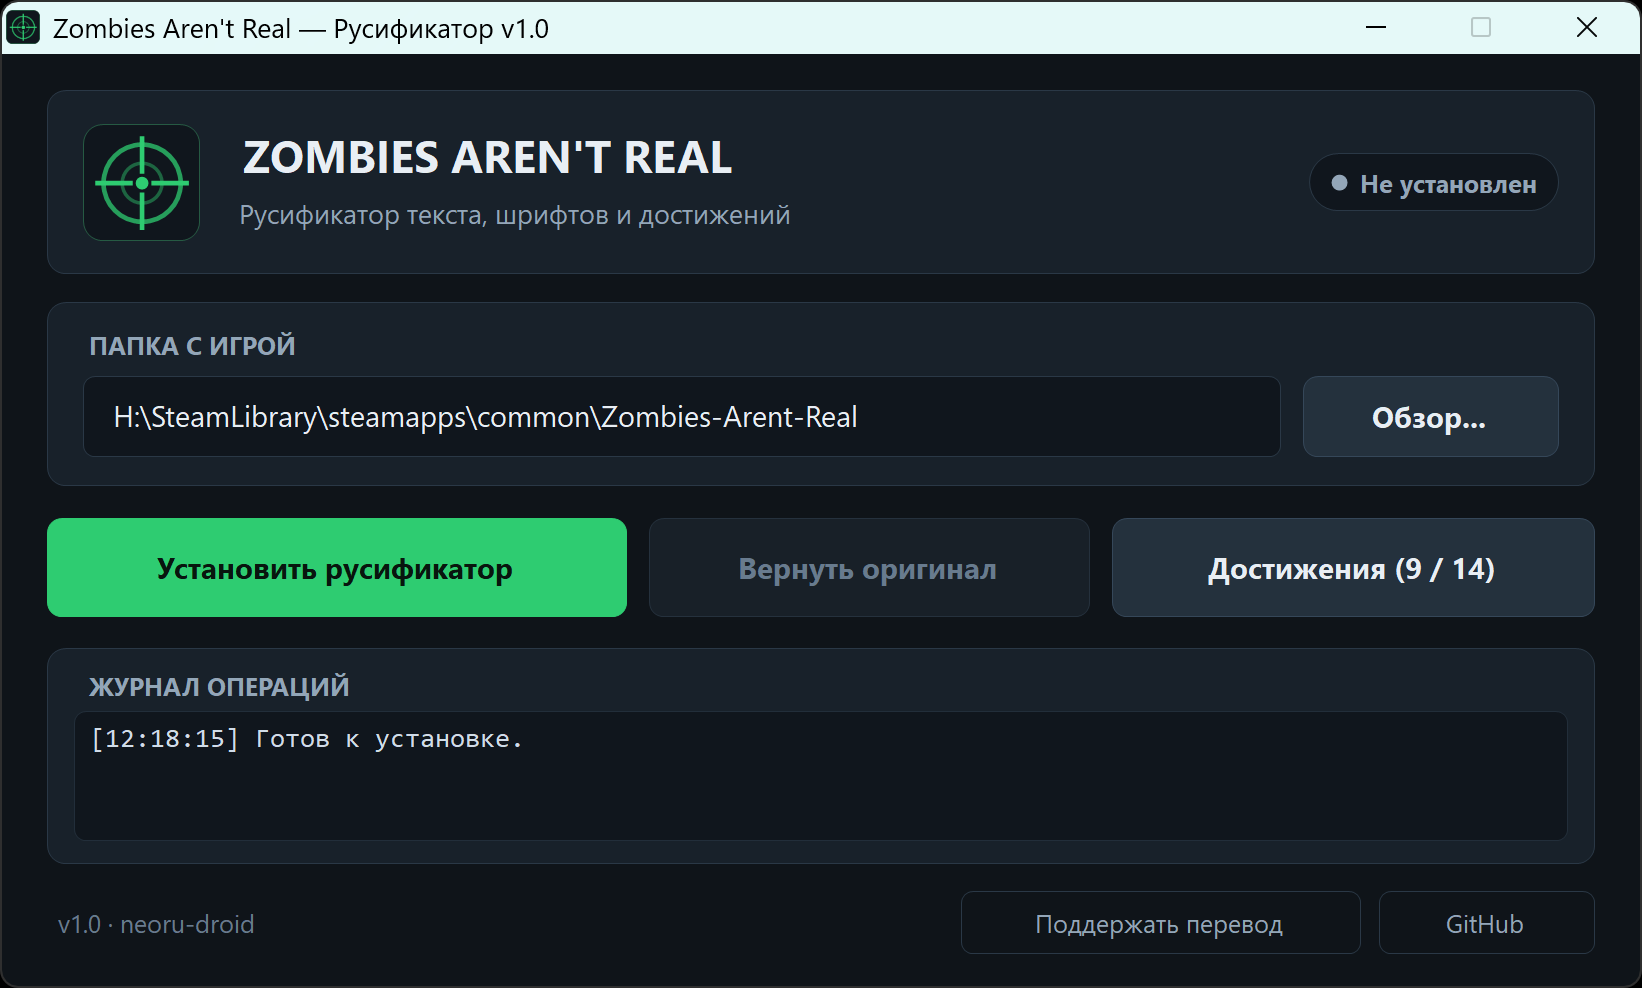
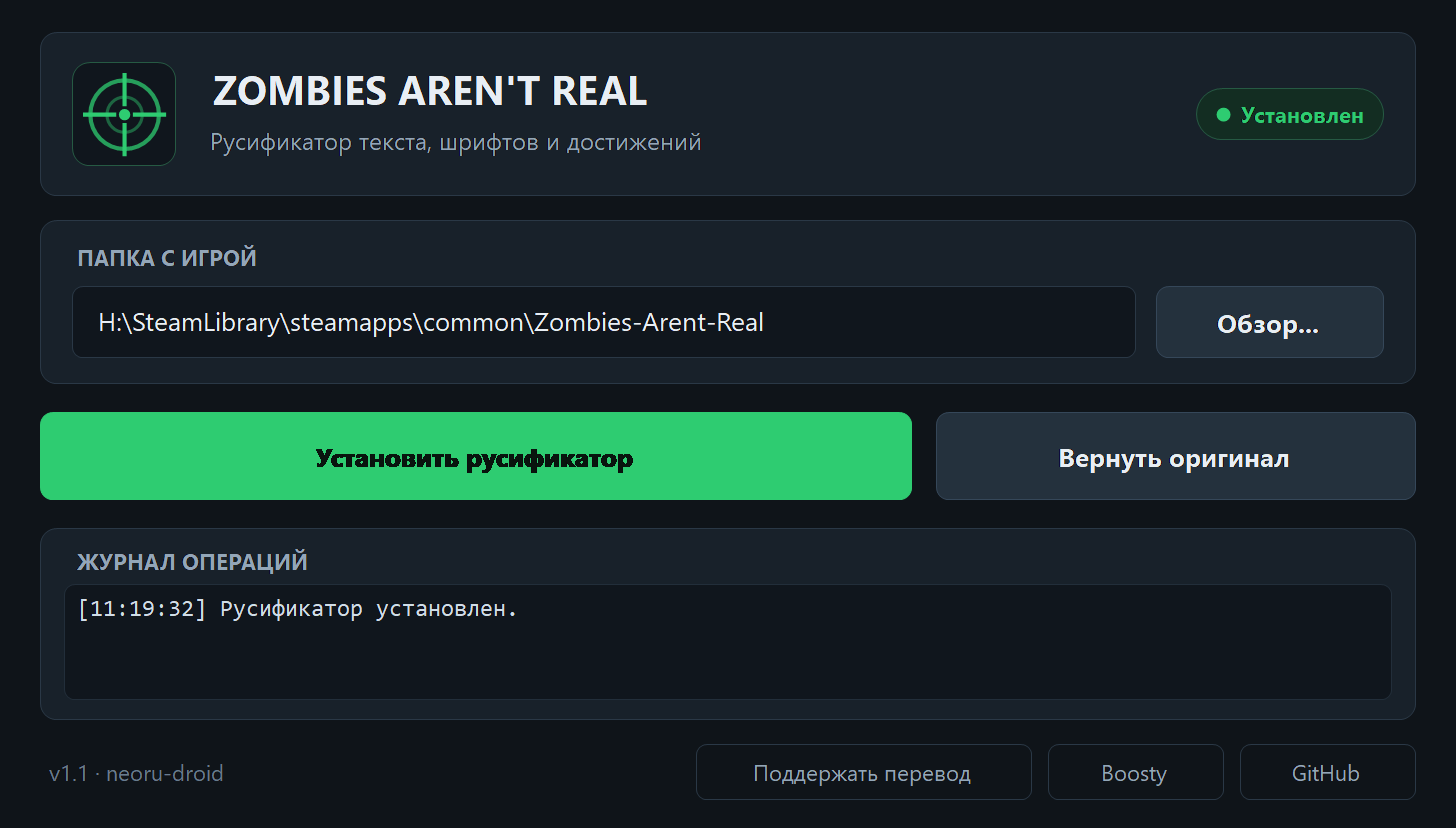
feat: update translation for v0.43.1 and unify v1.1 installer UI

diff --git a/src/ZombiesArentRealRuSetup.cs b/src/ZombiesArentRealRuSetup.cs
@@ -30,8 +30,8 @@ using Microsoft.Win32;
 [assembly: AssemblyTrademark("")]
 [assembly: AssemblyCulture("")]
 [assembly: ComVisible(false)]
-[assembly: AssemblyVersion("1.0.0.0")]
-[assembly: AssemblyFileVersion("1.0.0.0")]
+[assembly: AssemblyVersion("1.1.0.0")]
+[assembly: AssemblyFileVersion("1.1.0.0")]
 
 namespace ZombiesArentRealRuSetup
 {
@@ -39,6 +39,7 @@ namespace ZombiesArentRealRuSetup
     {
         public const int TargetAppId = 5185890;
         public const string SupportUrl = "https://pay.cloudtips.ru/p/240b8760";
+        public const string BoostyUrl = "https://boosty.to/cd_tixo";
         public const string GithubUrl = "https://github.com/neoru-droid/zombies-arent-real-ru";
 
         private const int AttachParentProcess = -1;
@@ -270,7 +271,7 @@ namespace ZombiesArentRealRuSetup
 
         private static void PrintCliHelp()
         {
-            Console.WriteLine("Zombies Aren't Real — Русификатор v1.0 (neoru-droid)");
+            Console.WriteLine("Zombies Aren't Real — Русификатор v1.1 (neoru-droid)");
             Console.WriteLine();
             Console.WriteLine("Использование:");
             Console.WriteLine("  ZombiesArentReal-RU-Setup.exe                        Графическое окно установщика");
@@ -468,7 +469,7 @@ namespace ZombiesArentRealRuSetup
             }
 
             PayloadData data = new PayloadData();
-            data.Version = GetString(root, "version", "1.0.0");
+            data.Version = GetString(root, "version", "1.1.0");
             data.AppId = GetInt(root, "app_id", Program.TargetAppId);
             data.Lang = ParseLangMap(root);
             data.Achievements = ParseAchievementsList(root);
@@ -2010,7 +2011,7 @@ namespace ZombiesArentRealRuSetup
     internal sealed class BackupManifestData
     {
         public int ManifestVersion = 1;
-        public string InstallerVersion = "1.0.0";
+        public string InstallerVersion = "1.1.0";
         public int AppId = Program.TargetAppId;
         public string CreatedUtc;
         public string UpdatedUtc;
@@ -2070,7 +2071,7 @@ namespace ZombiesArentRealRuSetup
 
             BackupManifestData m = new BackupManifestData();
             m.ManifestVersion = ReadInt(root, "manifest_version", 1);
-            m.InstallerVersion = ReadString(root, "installer_version", "1.0.0");
+            m.InstallerVersion = ReadString(root, "installer_version", "1.1.0");
             m.AppId = ReadInt(root, "app_id", Program.TargetAppId);
             m.CreatedUtc = ReadString(root, "created_utc", string.Empty);
             m.UpdatedUtc = ReadString(root, "updated_utc", string.Empty);
@@ -2578,7 +2579,7 @@ namespace ZombiesArentRealRuSetup
             }
 
             BackupManifestData nextManifest = new BackupManifestData();
-            nextManifest.InstallerVersion = payload.Version ?? "1.0.0";
+            nextManifest.InstallerVersion = payload.Version ?? "1.1.0";
             nextManifest.AppId = payload.AppId;
             nextManifest.CreatedUtc = (existingManifest != null && !string.IsNullOrEmpty(existingManifest.CreatedUtc))
                 ? existingManifest.CreatedUtc
@@ -3600,7 +3601,6 @@ namespace ZombiesArentRealRuSetup
         private Color _statusBadgeFg = TacticalTheme.TextSecondary;
         private Color _statusBadgeBg = TacticalTheme.RecessedBg;
         private Color _statusBadgeBorder = TacticalTheme.BorderCrisp;
-        private int _unlockedCount;
 
         private Font _fontBrand;
         private Font _fontBadge;
@@ -3622,9 +3622,9 @@ namespace ZombiesArentRealRuSetup
         private TacticalButton _browseBtn;
         private TacticalButton _installBtn;
         private TacticalButton _uninstallBtn;
-        private TacticalButton _achievementsBtn;
         private TextBox _logBox;
         private TacticalButton _supportLinkBtn;
+        private TacticalButton _boostyLinkBtn;
         private TacticalButton _githubLinkBtn;
 
         public SetupForm(
@@ -3653,7 +3653,7 @@ namespace ZombiesArentRealRuSetup
             StartPosition = FormStartPosition.CenterScreen;
             BackColor = TacticalTheme.BgDeep;
             ForeColor = TacticalTheme.TextPrimary;
-            Text = "Zombies Aren't Real — Русификатор v1.0";
+            Text = "Zombies Aren't Real — Русификатор v1.1";
             ClientSize = new Size(S(728), S(414));
 
             _winIcon = TacticalTheme.CreateWindowIcon();
@@ -3768,10 +3768,9 @@ namespace ZombiesArentRealRuSetup
 
             int btnY = S(206);
             int btnH = S(44);
-            int gap = S(10);
-            int installW = S(258);
-            int restoreW = S(196);
-            int achW = contentW - installW - restoreW - gap * 2;
+            int gap = S(12);
+            int restoreW = S(240);
+            int installW = contentW - restoreW - gap;
 
             _installBtn = new TacticalButton();
             _installBtn.Text = "Установить русификатор";
@@ -3790,14 +3789,6 @@ namespace ZombiesArentRealRuSetup
             _uninstallBtn.Click += OnUninstallClicked;
             Controls.Add(_uninstallBtn);
 
-            _achievementsBtn = new TacticalButton();
-            _achievementsBtn.Text = "Достижения (0 / 14)";
-            _achievementsBtn.Font = _fontSecondaryBtn;
-            _achievementsBtn.CornerRadius = S(6);
-            _achievementsBtn.Bounds = new Rectangle(pad + installW + gap + restoreW + gap, btnY, achW, btnH);
-            _achievementsBtn.Click += OnAchievementsClicked;
-            Controls.Add(_achievementsBtn);
-
             _logCardRect = new Rectangle(pad, S(264), contentW, S(96));
             _logBox = new TextBox();
             _logBox.Multiline = true;
@@ -3813,8 +3804,9 @@ namespace ZombiesArentRealRuSetup
 
             int footerY = S(372);
             int footerH = S(28);
-            int ghW = S(96);
-            int supW = S(178);
+            int ghW = S(88);
+            int boostyW = S(88);
+            int supW = S(168);
 
             _githubLinkBtn = new TacticalButton();
             _githubLinkBtn.Text = "GitHub";
@@ -3825,12 +3817,21 @@ namespace ZombiesArentRealRuSetup
             _githubLinkBtn.Click += delegate { Program.OpenBrowserUrl(Program.GithubUrl); };
             Controls.Add(_githubLinkBtn);
 
+            _boostyLinkBtn = new TacticalButton();
+            _boostyLinkBtn.Text = "Boosty";
+            _boostyLinkBtn.Font = _fontSmall;
+            _boostyLinkBtn.IsSubtleLink = true;
+            _boostyLinkBtn.CornerRadius = S(5);
+            _boostyLinkBtn.Bounds = new Rectangle(ClientSize.Width - pad - ghW - S(8) - boostyW, footerY, boostyW, footerH);
+            _boostyLinkBtn.Click += delegate { Program.OpenBrowserUrl(Program.BoostyUrl); };
+            Controls.Add(_boostyLinkBtn);
+
             _supportLinkBtn = new TacticalButton();
             _supportLinkBtn.Text = "Поддержать перевод";
             _supportLinkBtn.Font = _fontSmall;
             _supportLinkBtn.IsSubtleLink = true;
             _supportLinkBtn.CornerRadius = S(5);
-            _supportLinkBtn.Bounds = new Rectangle(ClientSize.Width - pad - ghW - S(8) - supW, footerY, supW, footerH);
+            _supportLinkBtn.Bounds = new Rectangle(ClientSize.Width - pad - ghW - S(8) - boostyW - S(8) - supW, footerY, supW, footerH);
             _supportLinkBtn.Click += delegate { Program.OpenBrowserUrl(Program.SupportUrl); };
             Controls.Add(_supportLinkBtn);
         }
@@ -3874,10 +3875,6 @@ namespace ZombiesArentRealRuSetup
                 _steamDir = SteamLocator.DetectSteamDirectory(null, currentGameDir);
             }
 
-            List<UserAchievementProfile> profiles = SteamUserStatsReader.LoadProfiles(_steamDir, _payload.Achievements.Count);
-            _unlockedCount = profiles.Count > 0 ? profiles[0].UnlockedCount : 0;
-            _achievementsBtn.Text = string.Format(CultureInfo.InvariantCulture, "Достижения ({0} / {1})", _unlockedCount, _payload.Achievements.Count);
-
             bool hasBackup = validGame && BackupManifestStore.HasValidBackup(currentGameDir);
             bool installed = validGame && InstallerService.IsRussifierInstalled(currentGameDir);
 
@@ -3906,7 +3903,6 @@ namespace ZombiesArentRealRuSetup
             _installBtn.Enabled = !_isBusy && validGame;
             _uninstallBtn.Enabled = !_isBusy && hasBackup;
             _browseBtn.Enabled = !_isBusy;
-            _achievementsBtn.Enabled = !_isBusy;
             Invalidate();
         }
 
@@ -4119,15 +4115,6 @@ namespace ZombiesArentRealRuSetup
             }
         }
 
-        private void OnAchievementsClicked(object sender, EventArgs e)
-        {
-            using (AchievementsForm dlg = new AchievementsForm(_payload, _steamDir, false, _appBaseDir, _pathBox.Text))
-            {
-                dlg.ShowDialog(this);
-            }
-            RefreshUiState();
-        }
-
         private void RunWorkerAction(string startHeader, Action<Action<string>> work, Action<Exception> onCompleted)
         {
             _isBusy = true;
@@ -4309,7 +4296,7 @@ namespace ZombiesArentRealRuSetup
             Rectangle leftFooter = new Rectangle(S(22), S(372), S(260), S(28));
             TextRenderer.DrawText(
                 g,
-                "v1.0 · neoru-droid",
+                "v1.1 · neoru-droid",
                 _fontSmall,
                 leftFooter,
                 TacticalTheme.TextDim,
@@ -4673,7 +4660,7 @@ namespace ZombiesArentRealRuSetup
                 req.Method = "GET";
                 req.Timeout = 4500;
                 req.ReadWriteTimeout = 4500;
-                req.UserAgent = "ZombiesArentReal-RU-Setup/1.0";
+                req.UserAgent = "ZombiesArentReal-RU-Setup/1.1";
 
                 using (HttpWebResponse resp = (HttpWebResponse)req.GetResponse())
                 using (Stream netStream = resp.GetResponseStream())

diff --git a/src/steamdeck_installer.py b/src/steamdeck_installer.py
@@ -22,6 +22,7 @@ from pathlib import Path
 from typing import Any, Protocol, TextIO
 
 TARGET_APP_ID = 5185890
+BOOSTY_URL = "https://boosty.to/cd_tixo"
 GAME_FOLDER_NAME = "Zombies-Arent-Real"
 GAME_EXE_NAME = "zombies-arent-real.exe"
 SCHEMA_FILE_NAME = "UserGameStatsSchema_5185890.bin"
@@ -126,7 +127,7 @@ class BackupFileItem:
 @dataclass
 class BackupManifest:
     manifest_version: int = 1
-    installer_version: str = "1.0.0"
+    installer_version: str = "1.1.0"
     app_id: int = TARGET_APP_ID
     created_utc: str = ""
     updated_utc: str = ""
@@ -185,7 +186,7 @@ def _bundle_from_dict(root: dict[str, Any]) -> PayloadBundle | None:
     }
     lang_map = {str(k): str(v) for k, v in dict(root["lang"]).items()}
     return PayloadBundle(
-        version=str(root.get("version", "1.0.0")),
+        version=str(root.get("version", "1.1.0")),
         app_id=TARGET_APP_ID,
         lang=lang_map,
         achievements=_parse_achievement_defs(list(root["achievements"])),
@@ -231,7 +232,7 @@ def _load_payload_from_data_dir(data_dir: Path) -> PayloadBundle | None:
         return None
     return _bundle_from_dict(
         {
-            "version": "1.0.0",
+            "version": "1.1.0",
             "app_id": TARGET_APP_ID,
             "lang": json.loads(lang_json.read_text(encoding="utf-8")),
             "achievements": json.loads(ach_json.read_text(encoding="utf-8")),
@@ -789,7 +790,7 @@ def load_backup_manifest(manifest_path: Path) -> BackupManifest:
     ]
     return BackupManifest(
         manifest_version=int(root.get("manifest_version", 1)),
-        installer_version=str(root.get("installer_version", "1.0.0")),
+        installer_version=str(root.get("installer_version", "1.1.0")),
         app_id=int(root.get("app_id", TARGET_APP_ID)),
         created_utc=str(root.get("created_utc", "")),
         updated_utc=str(root.get("updated_utc", "")),
@@ -1352,9 +1353,6 @@ def _execute_gui_action(
     if choice == "browse":
         picked = _gui_pick_valid_game_dir(game_dir, gui, title)
         return (picked, steam_dir or detect_steam_dir(None, picked)) if picked else (game_dir, steam_dir)
-    if choice == "achievements":
-        gui.show_report(title, format_achievements_report(payload, steam_dir))
-        return game_dir, steam_dir
 
     resolved = game_dir if is_valid_game_dir(game_dir) else _gui_pick_valid_game_dir(game_dir, gui, title)
     if resolved is None:
@@ -1376,16 +1374,17 @@ def run_gui_menu(
     steam_dir: Path | None,
     gui: GuiBackend,
 ) -> int:
-    title = "Zombies Aren't Real - Русификатор v1.0"
+    title = "Zombies Aren't Real - Русификатор v1.1"
     cur_game, cur_steam = game_dir, steam_dir
     while True:
-        profiles = load_user_profiles(cur_steam, len(payload.achievements))
-        unlocked = profiles[0].unlocked_count if profiles else 0
-        status_text = f"Состояние: {_gui_state_label(cur_game)}\nПапка игры: {cur_game or 'не найдена'}"
+        status_text = (
+            f"Состояние: {_gui_state_label(cur_game)}\n"
+            f"Папка игры: {cur_game or 'не найдена'}\n"
+            f"Boosty: {BOOSTY_URL}"
+        )
         items = [
             ("install", "Установить русификатор"),
             ("uninstall", "Вернуть оригинал"),
-            ("achievements", f"Достижения ({unlocked} / {len(payload.achievements)})"),
             ("browse", "Выбрать папку с игрой..."),
             ("exit", "Выход"),
         ]
@@ -1451,9 +1450,6 @@ def _handle_terminal_choice(
     if choice in ("0", "q", "exit"):
         return game_dir, steam_dir, True
     if choice == "3":
-        stdout.write("\n" + format_achievements_report(payload, steam_dir) + "\n")
-        return game_dir, steam_dir, False
-    if choice == "4":
         picked = _prompt_terminal_game_dir(stdin, stdout)
         return (picked, steam_dir or detect_steam_dir(None, picked), False) if picked else (game_dir, steam_dir, False)
     if choice in ("1", "2"):
@@ -1474,20 +1470,18 @@ def run_terminal_menu(
 ) -> int:
     cur_game, cur_steam = game_dir, steam_dir
     while True:
-        profiles = load_user_profiles(cur_steam, len(payload.achievements))
-        unlocked = profiles[0].unlocked_count if profiles else 0
         valid = is_valid_game_dir(cur_game)
         state_lbl = ("Установлен" if is_russifier_installed(cur_game) else "Не установлен") if valid else "укажите папку игры"
         stdout.write(
-            f"\n=== Zombies Aren't Real - Русификатор v1.0 (Steam Deck / Linux) ===\n"
+            f"\n=== Zombies Aren't Real - Русификатор v1.1 (Steam Deck / Linux) ===\n"
             f"Папка игры: {cur_game if valid else 'не найдена'}\n"
             f"Состояние:  {state_lbl}\n"
+            f"Boosty:     {BOOSTY_URL}\n"
             f"1) Установить русификатор\n"
             f"2) Вернуть оригинал\n"
-            f"3) Достижения ({unlocked} / {len(payload.achievements)})\n"
-            f"4) Указать папку с игрой\n"
+            f"3) Указать папку с игрой\n"
             f"0) Выход\n"
-            f"Выберите пункт [0-4]: "
+            f"Выберите пункт [0-3]: "
         )
         stdout.flush()
         raw = stdin.readline()

diff --git a/README.md b/README.md
@@ -4,7 +4,7 @@
 
 Исправленный русский перевод, пиксельный шрифт 8x8 (плюс гладкий **Tactical HUD** в настройках экрана) и перевод достижений для **Zombies Aren't Real**.
 
-**[Скачать ZombiesArentReal-RU-v1.0.zip](https://github.com/neoru-droid/zombies-arent-real-ru/releases/latest)**
+**[Скачать ZombiesArentReal-RU-v1.1.zip](https://github.com/neoru-droid/zombies-arent-real-ru/releases/latest)**
 
 ## Установка
 1. Закройте игру, распакуйте архив и запустите `ZombiesArentReal-RU-Setup.exe` -> **«Установить русификатор»**.
